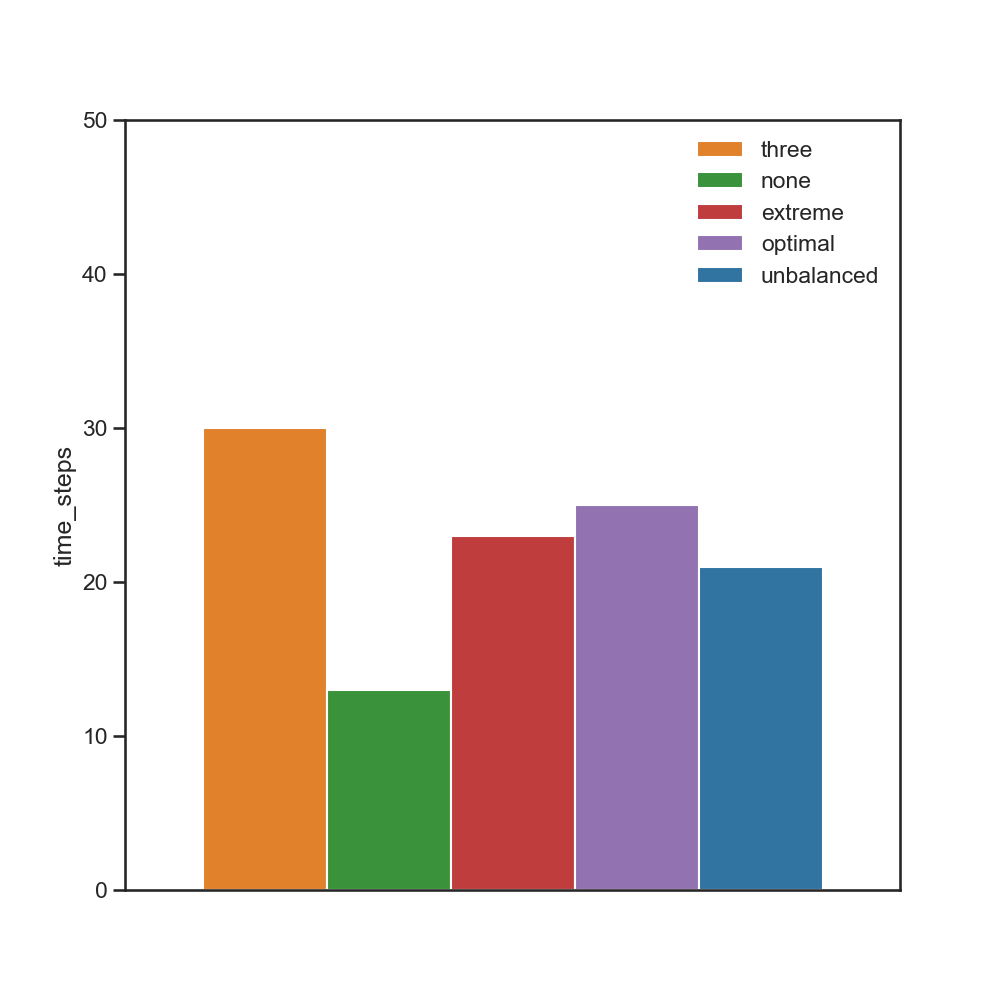
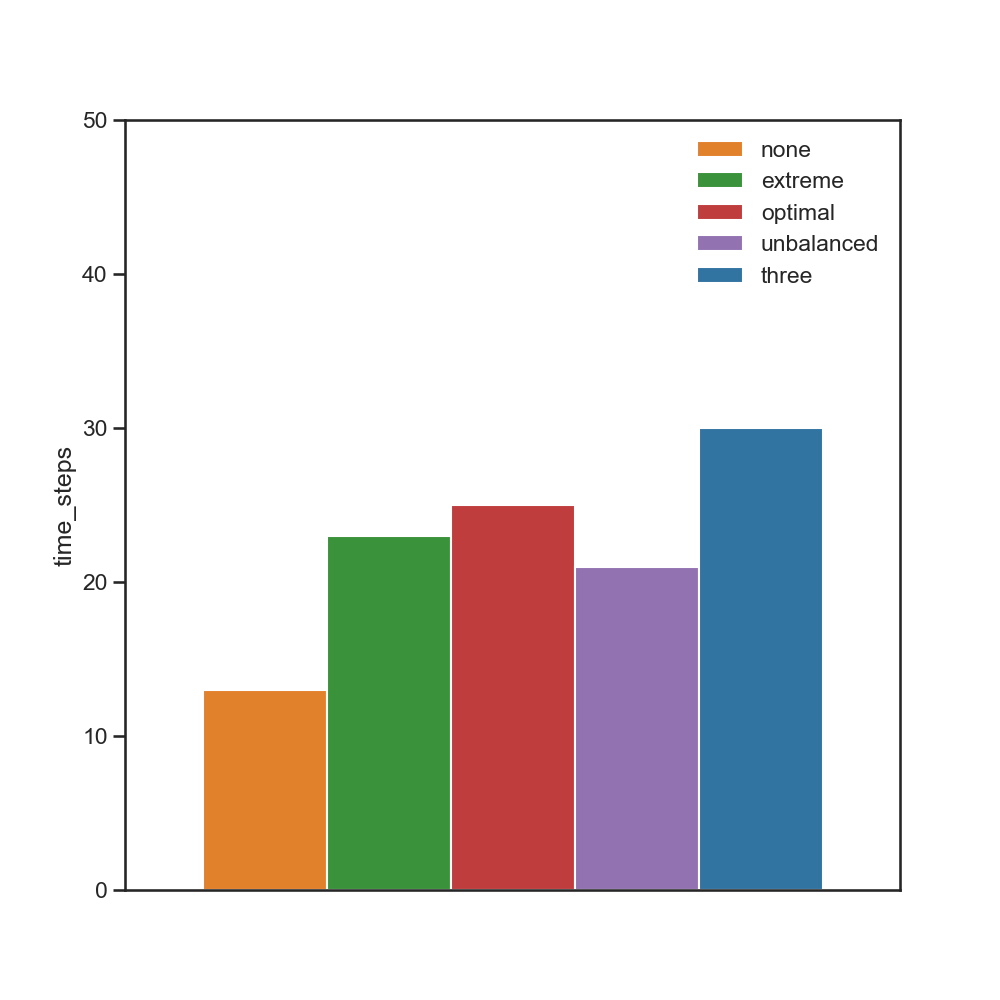
Ran some CF Results

Changed region(s): [[0.186, 0.403, 0.837, 0.713], [0.744, 0.124, 0.868, 0.279]]

diff --git a/gym_cooking/misc/metrics/make_graphs.py b/gym_cooking/misc/metrics/make_graphs.py
@@ -17,6 +17,7 @@ recipes = [
         "chicken",
         "salad",
         "burger",
+        "CF",
     ]
 total_num_subtasks = {
         "tomato": 3,
@@ -24,6 +25,7 @@ total_num_subtasks = {
         "salad": 5,
         "chicken": 7,
         "burger": 6,
+        "CF": 6,
     }
 models = [
        "_model1-bd_model2-bd",
@@ -65,7 +67,7 @@ agents2_optimal = {
     "open-divider": {"tomato": 15, "tl": 25, "salad": 24},
     "partial-divider": {"tomato": 17, "tl": 31, "salad": 21},
     "full-divider": {"tomato": 17, "tl": 31, "salad": 21},
-    "very-easy": {"chicken": 40, "salad": 25, "tomato": 21, "burger": 28},
+    "very-easy": {"chicken": 40, "salad": 25, "tomato": 21, "burger": 28, "CF":25},
 }
 agents3_optimal = {
     "open-divider": {"tomato": 12, "tl": 22, "salad": 15},

diff --git a/gym_cooking/main.py b/gym_cooking/main.py
@@ -91,7 +91,7 @@ def roleAssignmentAlgorithm(typeUsed, num_agents):
     elif typeUsed == "none":
         return [InvincibleWaiter(), InvincibleWaiter()]
     elif typeUsed == "unbalanced":
-        return [ChoppingWaiter(), ExceptionalChefMerger()]
+        return [ExceptionalChefMerger(), FryingWaiter()]
     elif typeUsed == "three":
         if num_agents == 2:
             return [ExceptionalChefMerger(), CookingMergingWaiter()]
@@ -143,6 +143,7 @@ def initialize_agents(arglist):
                     real_agents.append(real_agent)
                     if len(real_agents) >= arglist.num_agents:
                         finished = True
+                    index+=1
     return real_agents
 
 def main_loop(arglist):

diff --git a/gym_cooking/envs/overcooked_environment.py b/gym_cooking/envs/overcooked_environment.py
@@ -199,7 +199,7 @@ class OvercookedEnvironment(gym.Env):
         elif typeUsed == "none":
             return [InvincibleWaiter(), InvincibleWaiter()]
         elif typeUsed == "unbalanced":
-            return [ChoppingWaiter(), ExceptionalChefMerger()]
+            return [ExceptionalChefMerger(), FryingWaiter()]
         elif typeUsed == "three":
             if num_agents == 2:
                 return [ExceptionalChefMerger(), CookingMergingWaiter()]
